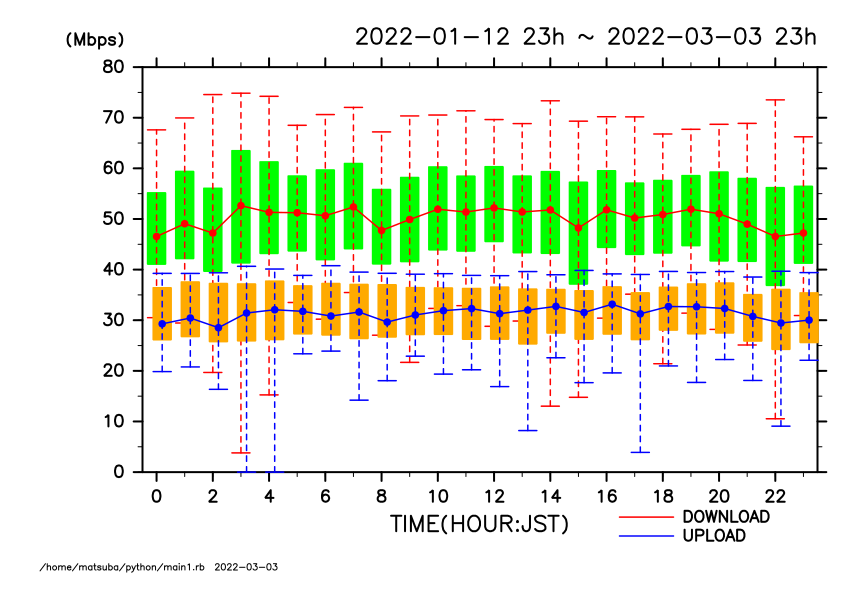
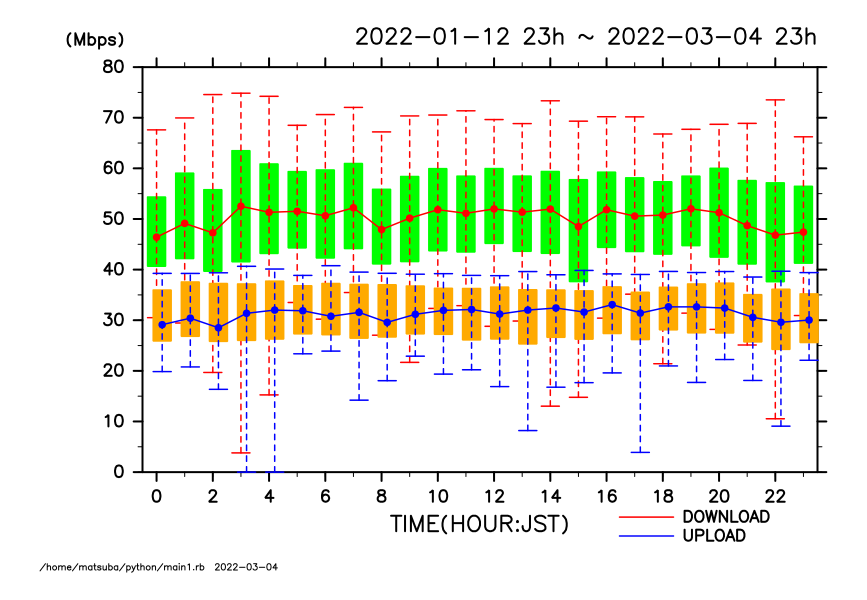
2022/03/05 12:40:27

diff --git a/hoge/index.html b/hoge/index.html
@@ -97,7 +97,7 @@
 <li><em>2022/03/04追記</em>:
 <ul>
 <li>このスクリプトを動かしているノートPCが10年モノのため無線LANの規格が古く、本来の速度が出ていないことが判明。</li>
-<li>別のPCでspeedtest(Web版)を試すと、軽く200Mbpsは出る。</li>
+<li>別のPCでspeedtest(Web版)を試すと、軽く100Mbpsは出る。</li>
 </ul></li>
 <li><em>2022/02/23追記</em>:
 <ul>
@@ -119,7 +119,7 @@
   <footer>
     <p>
     &copy; MATSUBA Fumitaka: <img src="https://matsubi0526.github.io/email_image.png" height=16pt alt="contact address" style="display-style: inline; vertical-align: middle;" /> <br />
-    Lastupdate: 2022/03/04, Since 2020/04/13
+    Lastupdate: 2022/03/05, Since 2020/04/13
     </p>
   </footer>
   </div> <!-- /.container main -->
